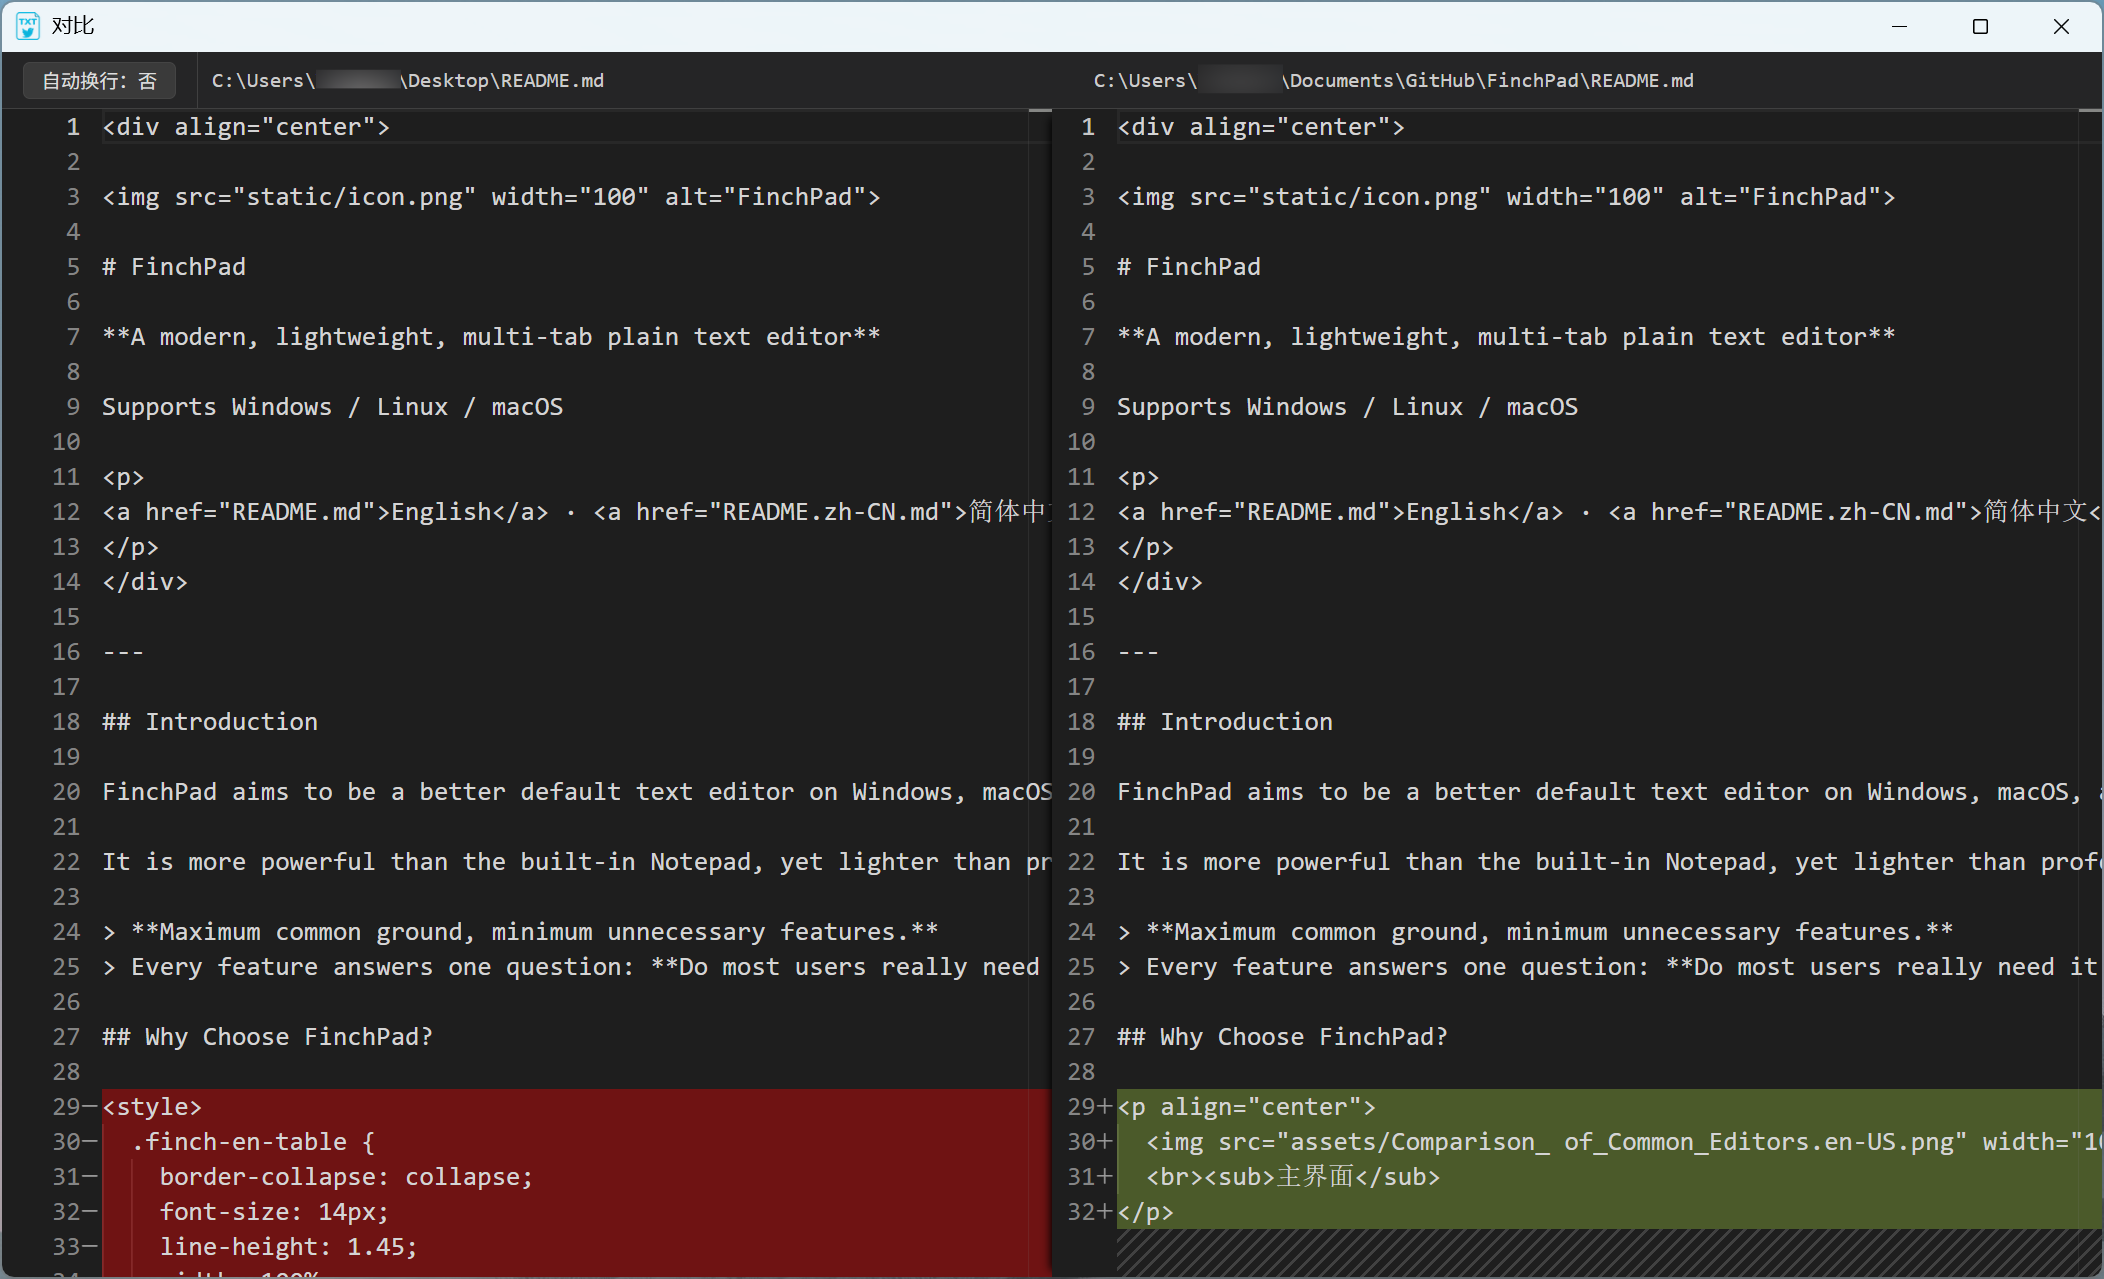
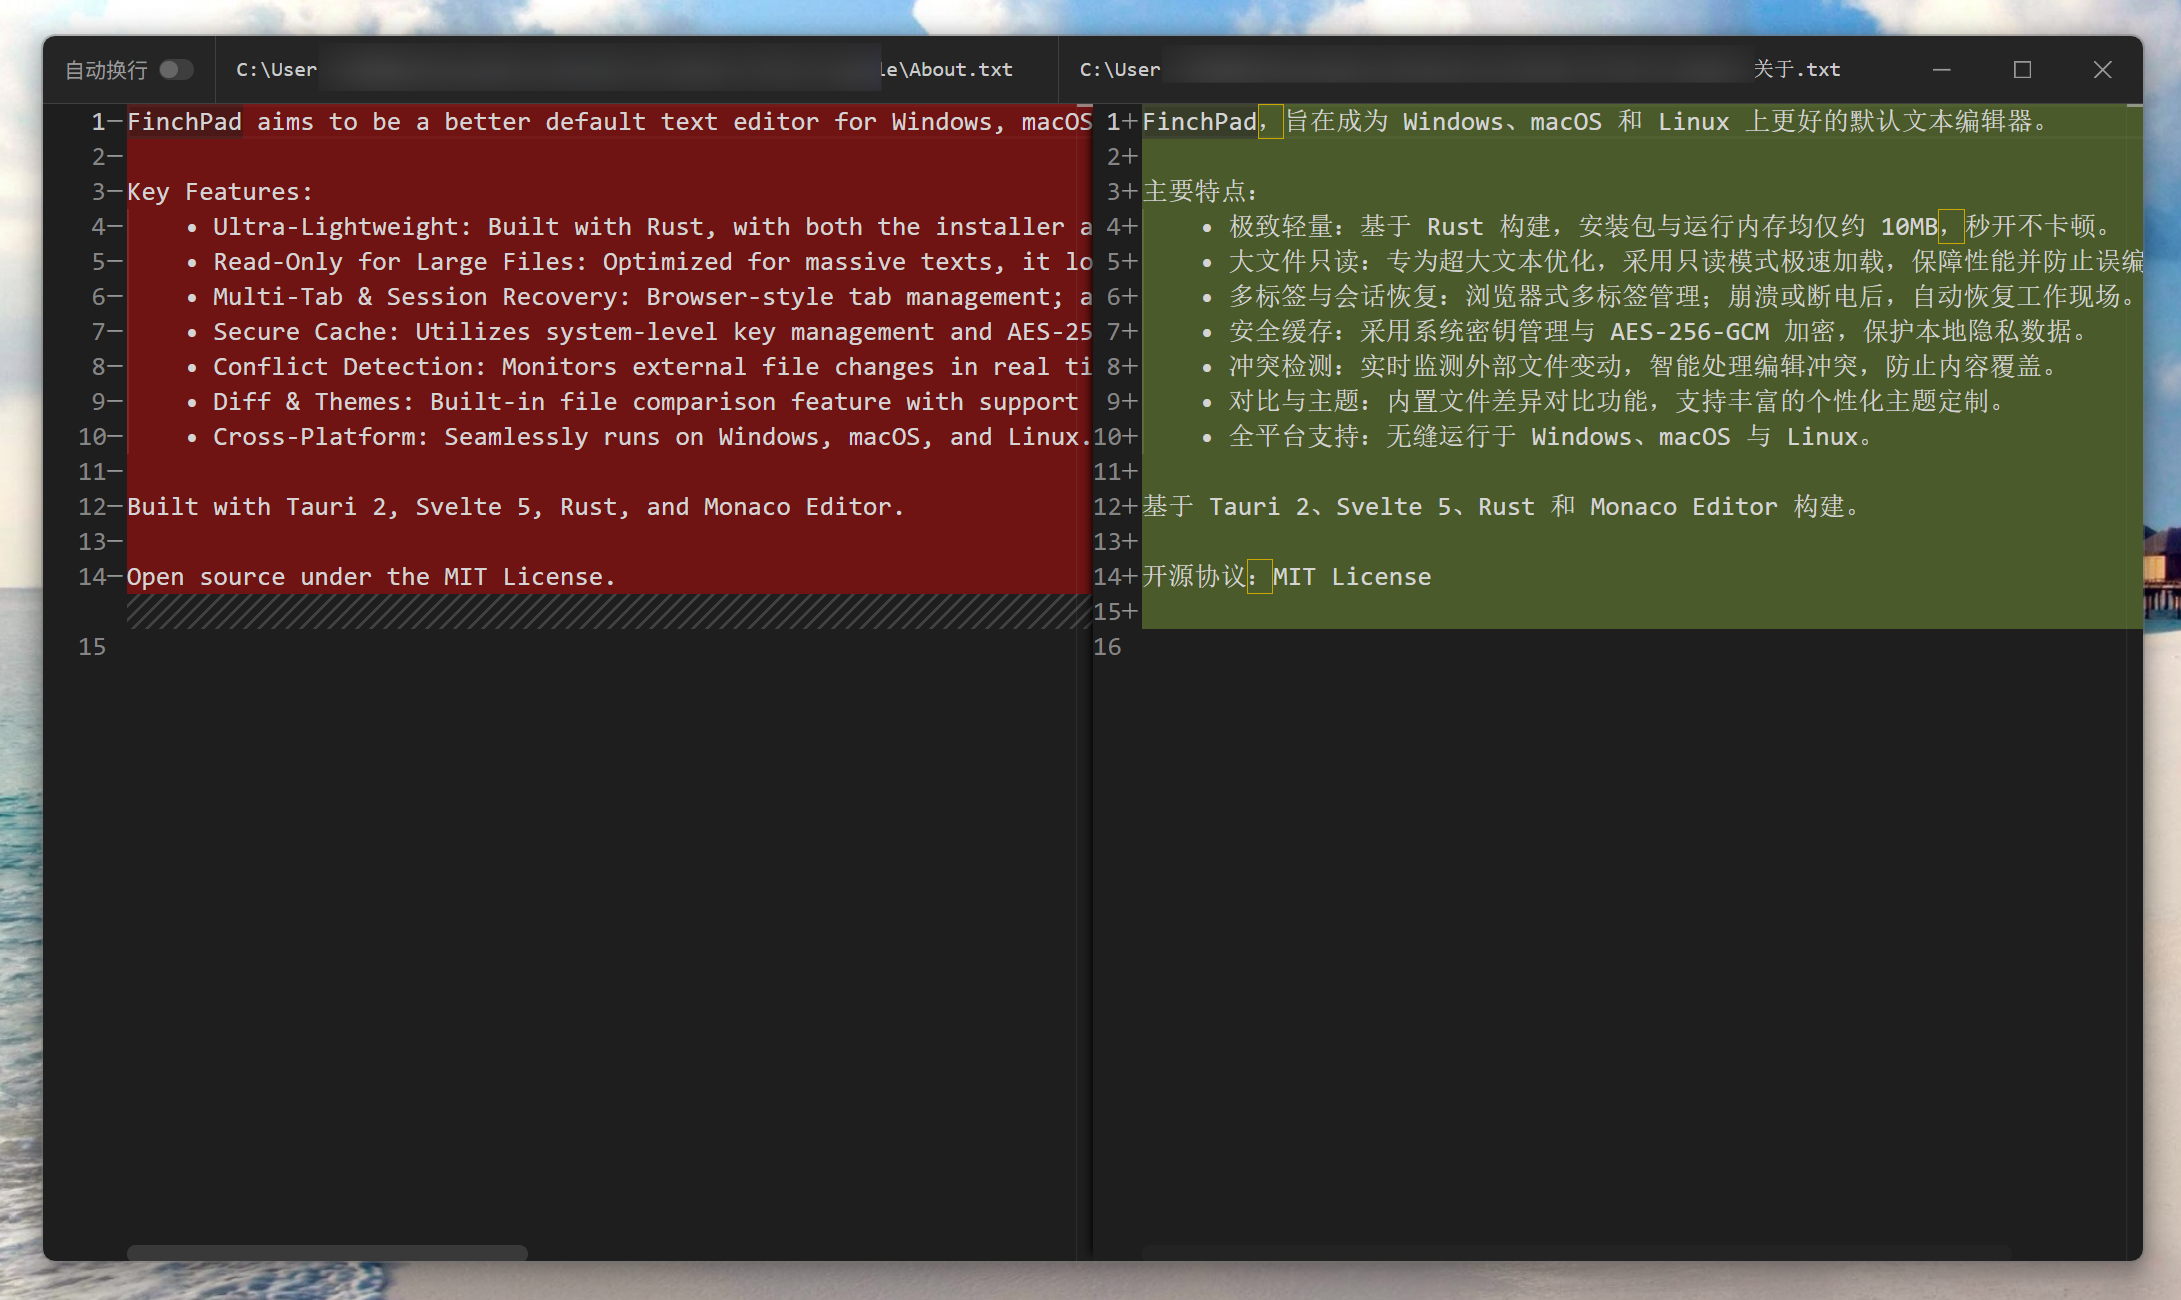
v0.8.0

diff --git a/src/lib/DiffWindowApp.svelte b/src/lib/DiffWindowApp.svelte
@@ -210,13 +210,24 @@
     // 2. 只有是打包后的生产环境 (import.meta.env.PROD)
     // 同时满足时，才强制使用 Vite 正确打包出的 Worker，覆盖插件在 Mac 下失效的路径。
     // Windows/Linux 下，这段代码连进都不会进，100% 保持原状！
-    if (isMac && import.meta.env.PROD && typeof window !== "undefined") {
+
+    // ★ 核心修复：去掉所有条件限制，让 Windows 和 Mac 在 build 之后都能拿到正确的 Worker
+    if (typeof window !== "undefined") {
         (window as any).MonacoEnvironment = {
-            getWorker: function (_workerId: string, _label: string) {
+            getWorker: function () {
                 return new editorWorker();
             },
         };
     }
+
+    // 下面是macOS生效的版本，如果mac对比功能没有差异高亮，则换下面的代码
+    // if (isMac && import.meta.env.PROD && typeof window !== "undefined") {
+    //     (window as any).MonacoEnvironment = {
+    //         getWorker: function (_workerId: string, _label: string) {
+    //             return new editorWorker();
+    //         },
+    //     };
+    // }
 
     let isMaximized = false;
 
@@ -314,7 +325,7 @@
             lineDecorationsWidth: 12,
 
             // ★ 核心修复 1：开启高级算法，专治各种不相关文件比对罢工
-            diffAlgorithm: "advanced",
+            // diffAlgorithm: "advanced",
             // ★ 核心修复 2：开启空白行折叠（之前丢了，加上体验更好）
             hideUnchangedRegions: {
                 enabled: true,

diff --git a/src/lib/LargeFileViewer.svelte b/src/lib/LargeFileViewer.svelte
@@ -20,15 +20,30 @@
     const isMac =
         typeof navigator !== "undefined" &&
         /Mac|iPhone|iPad/.test(navigator.platform || navigator.userAgent);
+
     // ★ 核心新增：绝密隔离！
-    // 这段代码在 Windows/Linux 下完全不会执行，所以 100% 不影响你现有的任何功能。
-    if (isMac && import.meta.env.PROD && typeof window !== "undefined") {
+    // 1. 只有是 Mac 系统
+    // 2. 只有是打包后的生产环境 (import.meta.env.PROD)
+    // 同时满足时，才强制使用 Vite 正确打包出的 Worker，覆盖插件在 Mac 下失效的路径。
+    // Windows/Linux 下，这段代码连进都不会进，100% 保持原状！
+
+    // ★ 核心修复：去掉所有条件限制，让 Windows 和 Mac 在 build 之后都能拿到正确的 Worker
+    if (typeof window !== "undefined") {
         (window as any).MonacoEnvironment = {
-            getWorker: function (_workerId: string, _label: string) {
+            getWorker: function () {
                 return new editorWorker();
             },
         };
     }
+
+    // 下面是macOS生效的版本，如果mac对比功能没有差异高亮，则换下面的代码
+    // if (isMac && import.meta.env.PROD && typeof window !== "undefined") {
+    //     (window as any).MonacoEnvironment = {
+    //         getWorker: function (_workerId: string, _label: string) {
+    //             return new editorWorker();
+    //         },
+    //     };
+    // }
 
     let isMaximized = false;
     // ★ 新增：拖拽逻辑
